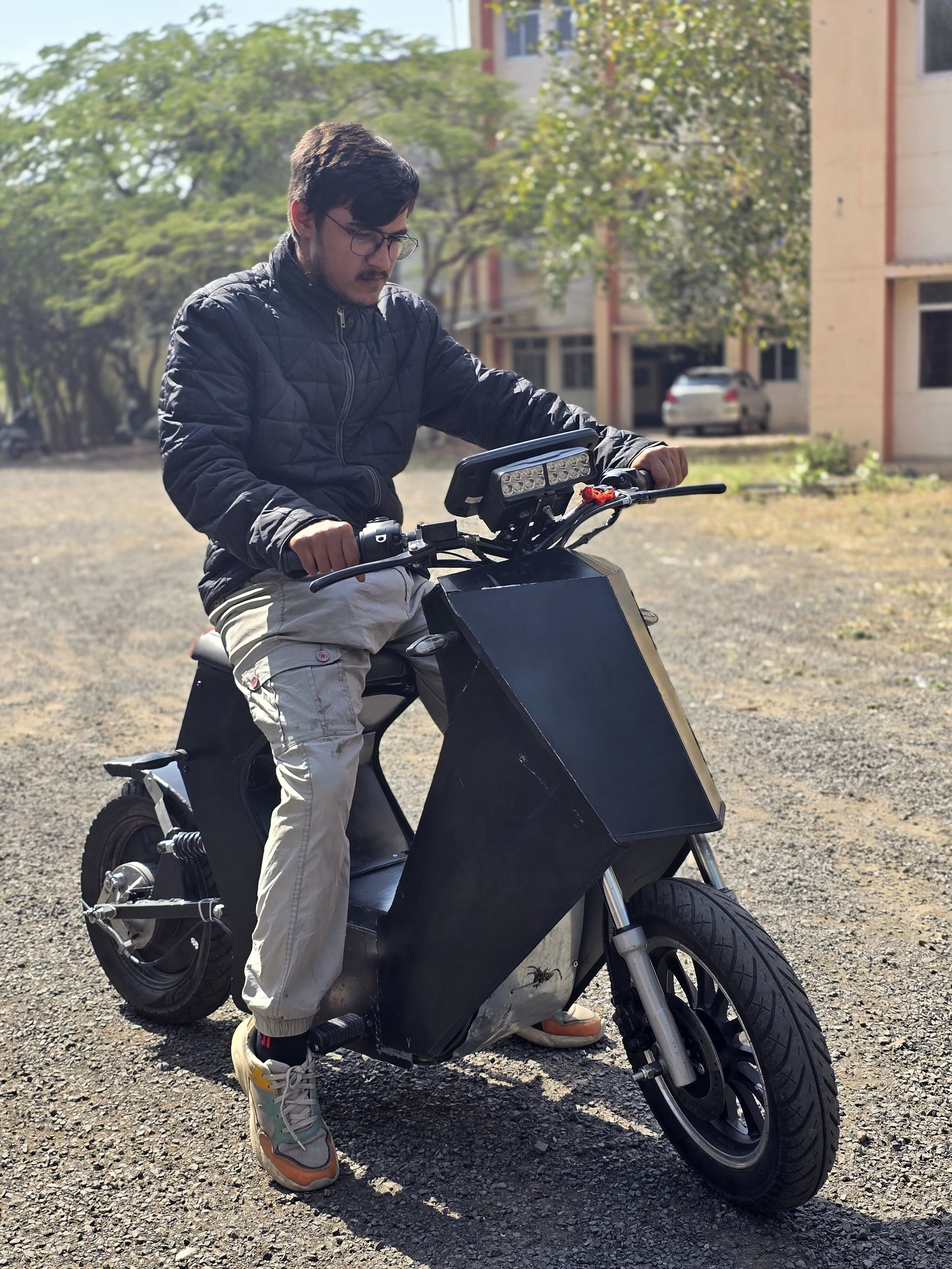
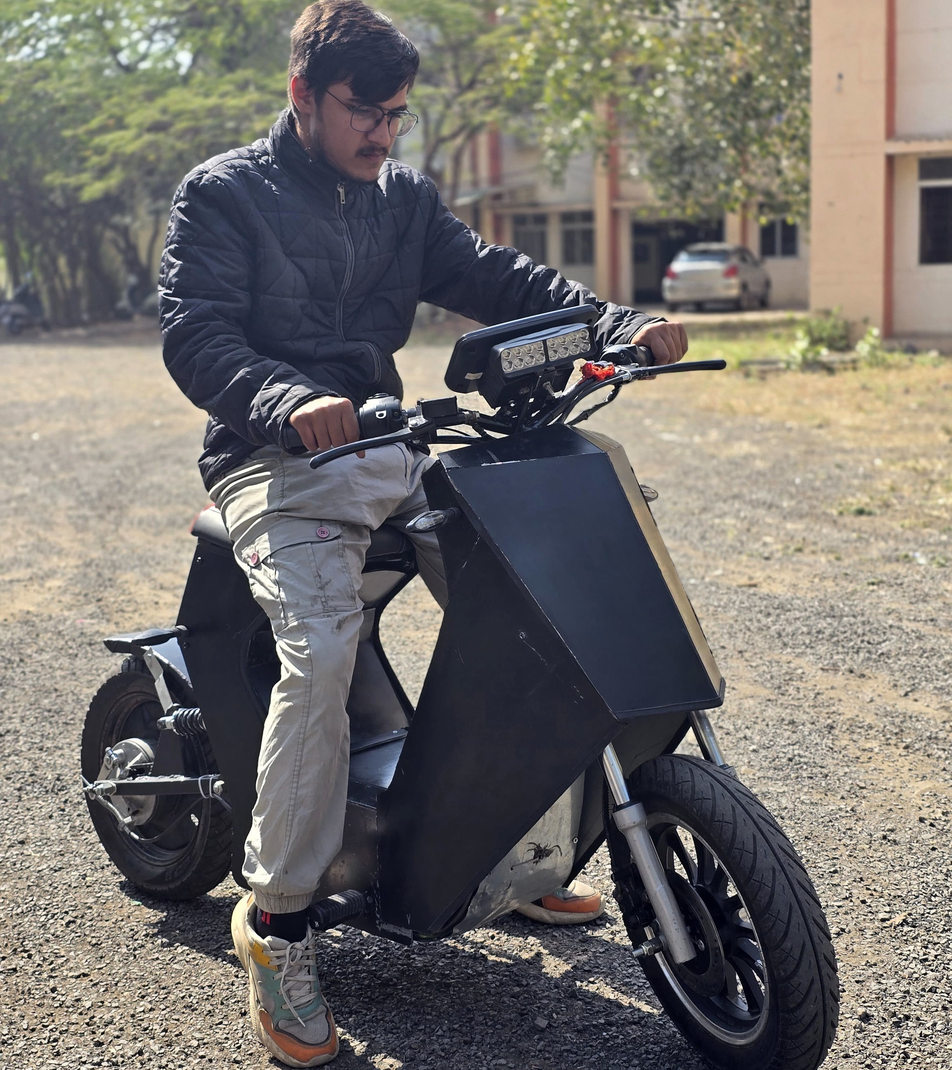
new

diff --git a/src/components/Vehicles..jsx b/src/components/Vehicles..jsx
@@ -14,7 +14,7 @@ const Vehicles = () => {
       id: 'shadow-2.0',
       name: 'Shadow 2.0',
       description: 'An eco-friendly scooter with a sleek design and a range of 45km.',
-      image: '../shadow2.0.png', // Replace with actual image URL
+      image: '../edit.png', // Replace with actual image URL
     },
     {
       id: 'electric-bike-model-z',

diff --git a/src/components/home.css b/src/components/home.css
@@ -11,7 +11,7 @@ h1, h2 {
 
 /* Hero Section */
 .hero {
-  background: url('../bike.jpg') no-repeat center center/cover;
+  background: url('../bike1.jpg') no-repeat center center/cover;
   height: 95vh;
   display: flex;
   justify-content: center;
